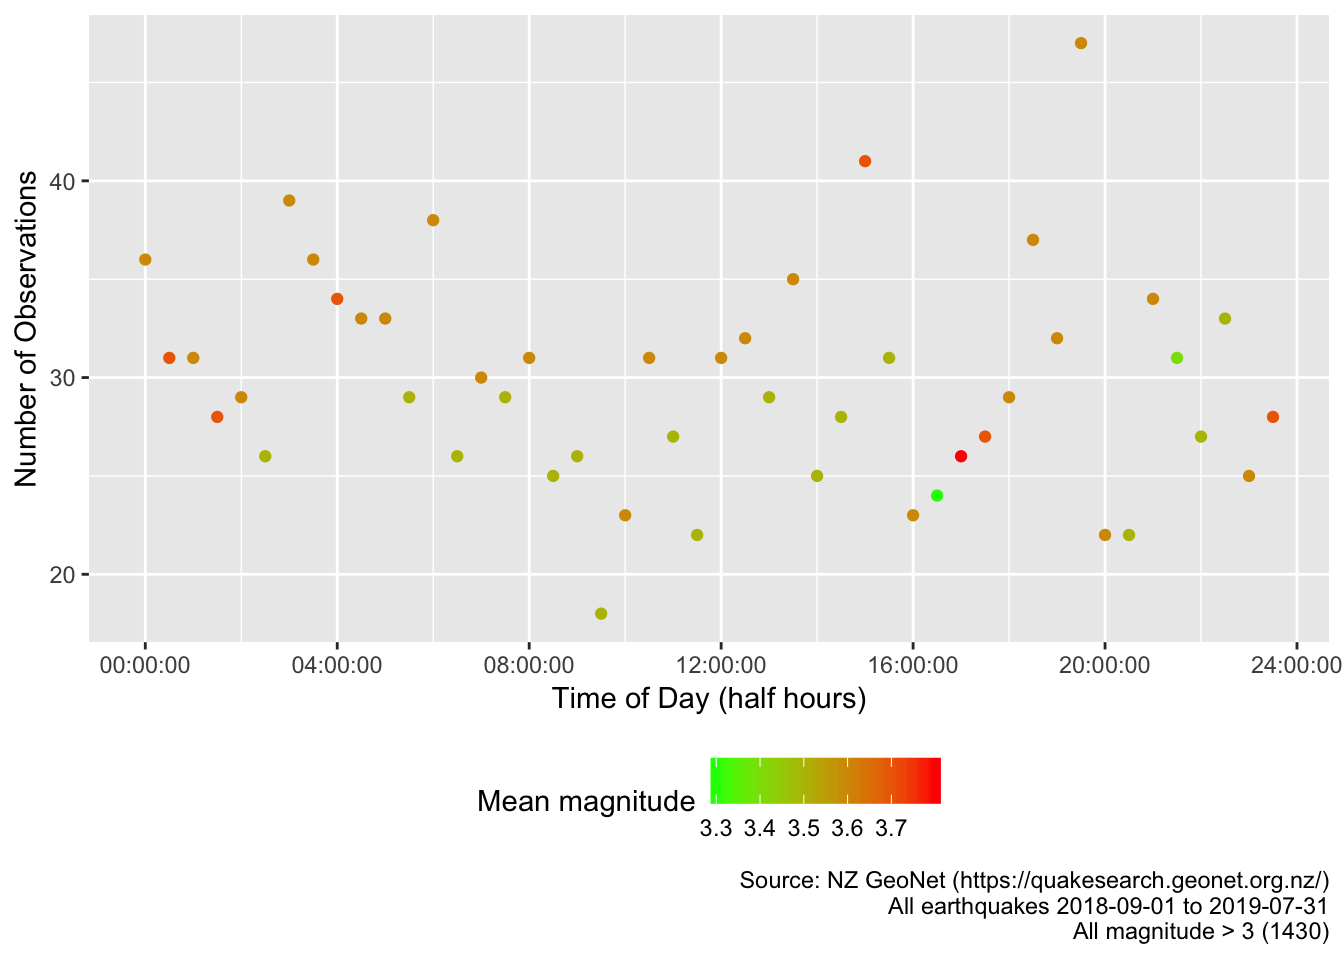
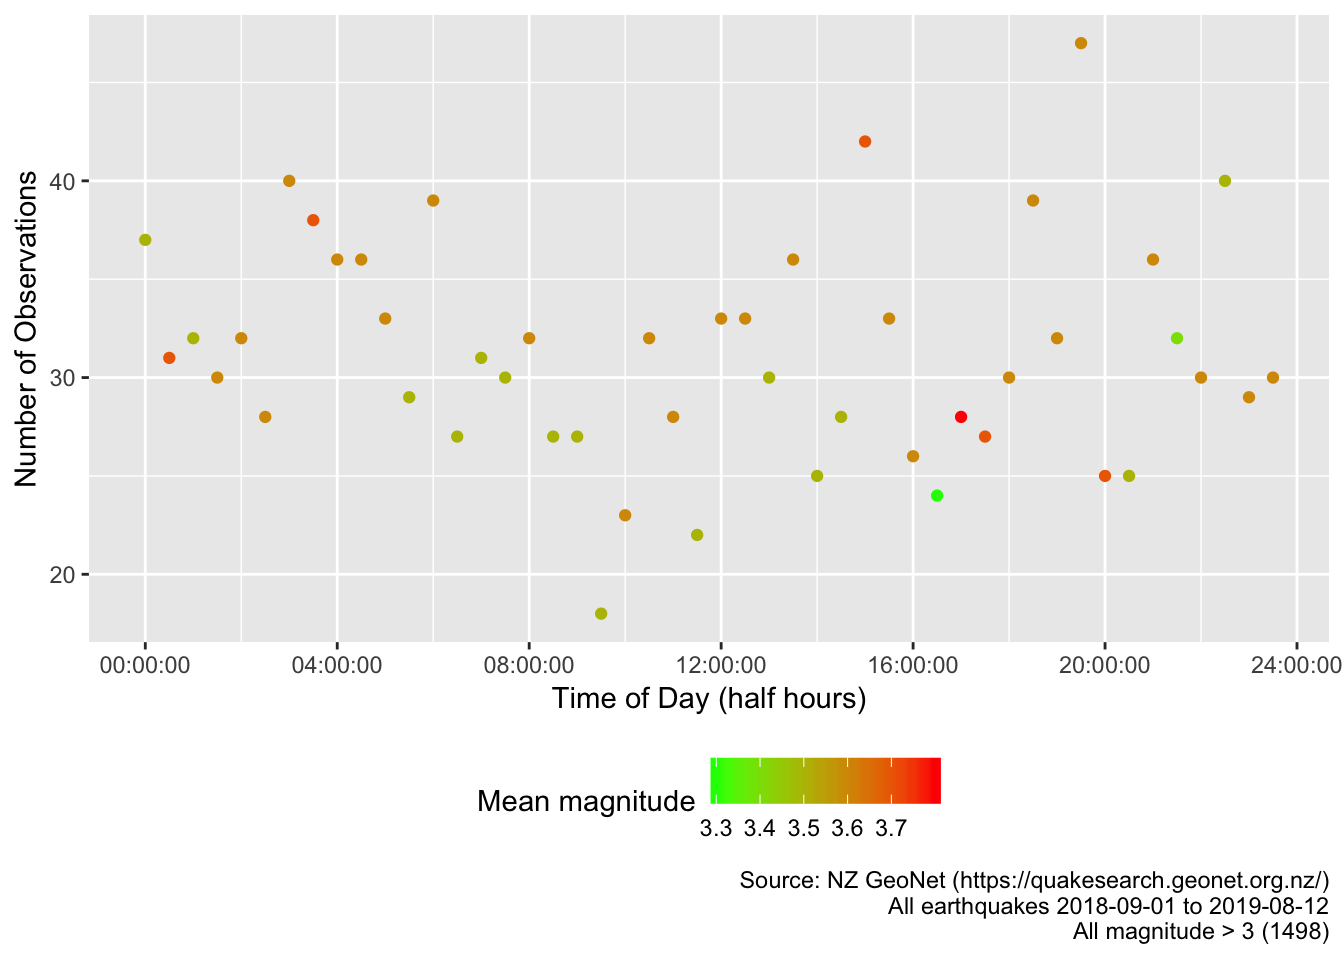
elongated data sample slightly; re-ran

diff --git a/docs/earthquakeTiming.html b/docs/earthquakeTiming.html
@@ -307,7 +307,7 @@ div.tocify {
 <h1 class="title toc-ignore">On the timing of earthquakes (and their magnitude)</h1>
 <h3 class="subtitle">Using Aotearoa New Zealand GeoNet data</h3>
 <h4 class="author">Ben Anderson (Contact: <a href="mailto:b.anderson@soton.ac.uk" class="email">b.anderson@soton.ac.uk</a>, <code>@dataknut</code>)</h4>
-<h4 class="date">Last run at: 2019-08-14 12:15:12</h4>
+<h4 class="date">Last run at: 2019-08-14 12:17:20</h4>
 
 </div>
 
@@ -320,7 +320,7 @@ div.tocify {
 </div>
 <div id="data" class="section level1">
 <h1><span class="header-section-number">2</span> Data</h1>
-<p>We downloaded all earthquake records from 2018-09-01 to 2019-08-01. This is a grand total of 19879 records.</p>
+<p>We downloaded all earthquake records from 2018-09-01 to 2019-08-13. This is a grand total of 20498 records.</p>
 <p>Not all the events are actually earthquakes. As Table <a href="#tab:eventsTab">2.1</a> shows, there are explosions, quarry blasts etc.</p>
 <pre class="r"><code>t &lt;- cube(dt, j = list(&quot;min magnitude&quot; = min(magnitude),
                        &quot;mean magnitude&quot; = mean(magnitude),
@@ -369,24 +369,7 @@ earthquake
 6.16
 </td>
 <td style="text-align:right;">
-16405
-</td>
-</tr>
-<tr>
-<td style="text-align:left;">
-quarry blast
-</td>
-<td style="text-align:right;">
-0.66
-</td>
-<td style="text-align:right;">
-2.07
-</td>
-<td style="text-align:right;">
-2.84
-</td>
-<td style="text-align:right;">
-56
+17018
 </td>
 </tr>
 <tr>
@@ -397,13 +380,30 @@ not locatable
 0.38
 </td>
 <td style="text-align:right;">
-1.70
+1.69
 </td>
 <td style="text-align:right;">
 3.26
 </td>
 <td style="text-align:right;">
-42
+43
+</td>
+</tr>
+<tr>
+<td style="text-align:left;">
+quarry blast
+</td>
+<td style="text-align:right;">
+0.66
+</td>
+<td style="text-align:right;">
+2.09
+</td>
+<td style="text-align:right;">
+2.84
+</td>
+<td style="text-align:right;">
+58
 </td>
 </tr>
 <tr>
@@ -414,13 +414,13 @@ outside of network interest
 0.78
 </td>
 <td style="text-align:right;">
-4.20
+4.19
 </td>
 <td style="text-align:right;">
 6.70
 </td>
 <td style="text-align:right;">
-197
+199
 </td>
 </tr>
 <tr>
@@ -547,7 +547,7 @@ Figure 5.1: Mean magnitude of earthquakes by time of day
 </div>
 <div id="data-annex" class="section level1">
 <h1><span class="header-section-number">6</span> Data Annex</h1>
-<p>Original data as loaded from <a href="https://quakesearch.geonet.org.nz/csv?bbox=163.95996,-49.18170,182.63672,-32.28713&amp;startdate=2018-09-01&amp;enddate=2019-08-01" class="uri">https://quakesearch.geonet.org.nz/csv?bbox=163.95996,-49.18170,182.63672,-32.28713&amp;startdate=2018-09-01&amp;enddate=2019-08-01</a>:</p>
+<p>Original data as loaded from <a href="https://quakesearch.geonet.org.nz/csv?bbox=163.95996,-49.18170,182.63672,-32.28713&amp;startdate=2018-09-01&amp;enddate=2019-08-13" class="uri">https://quakesearch.geonet.org.nz/csv?bbox=163.95996,-49.18170,182.63672,-32.28713&amp;startdate=2018-09-01&amp;enddate=2019-08-13</a>:</p>
 <pre class="r"><code>skimr::skim(df) # original data</code></pre>
 <pre><code>## No skim method exists for class function.</code></pre>
 </div>
